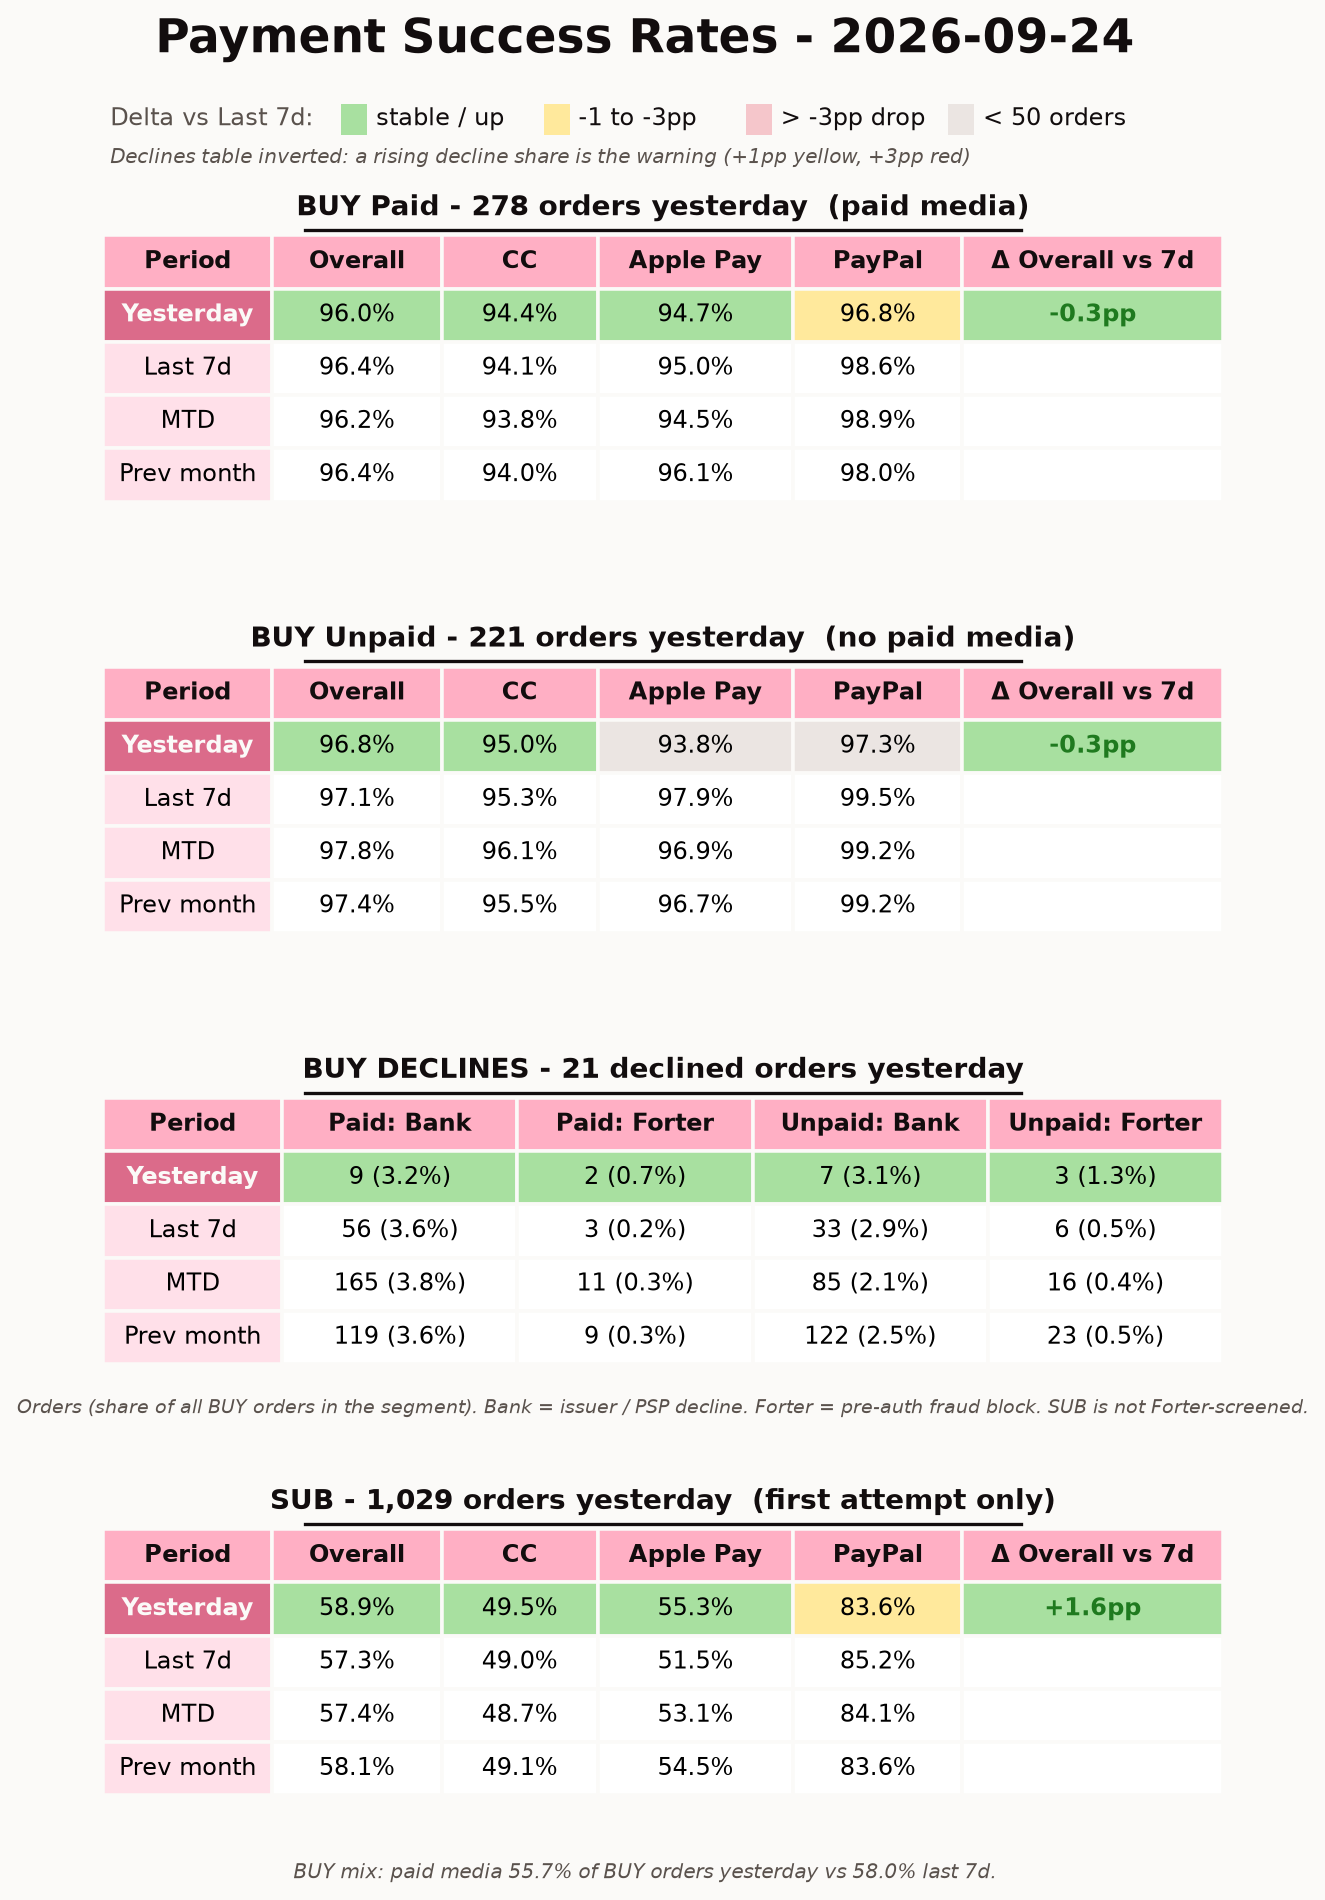
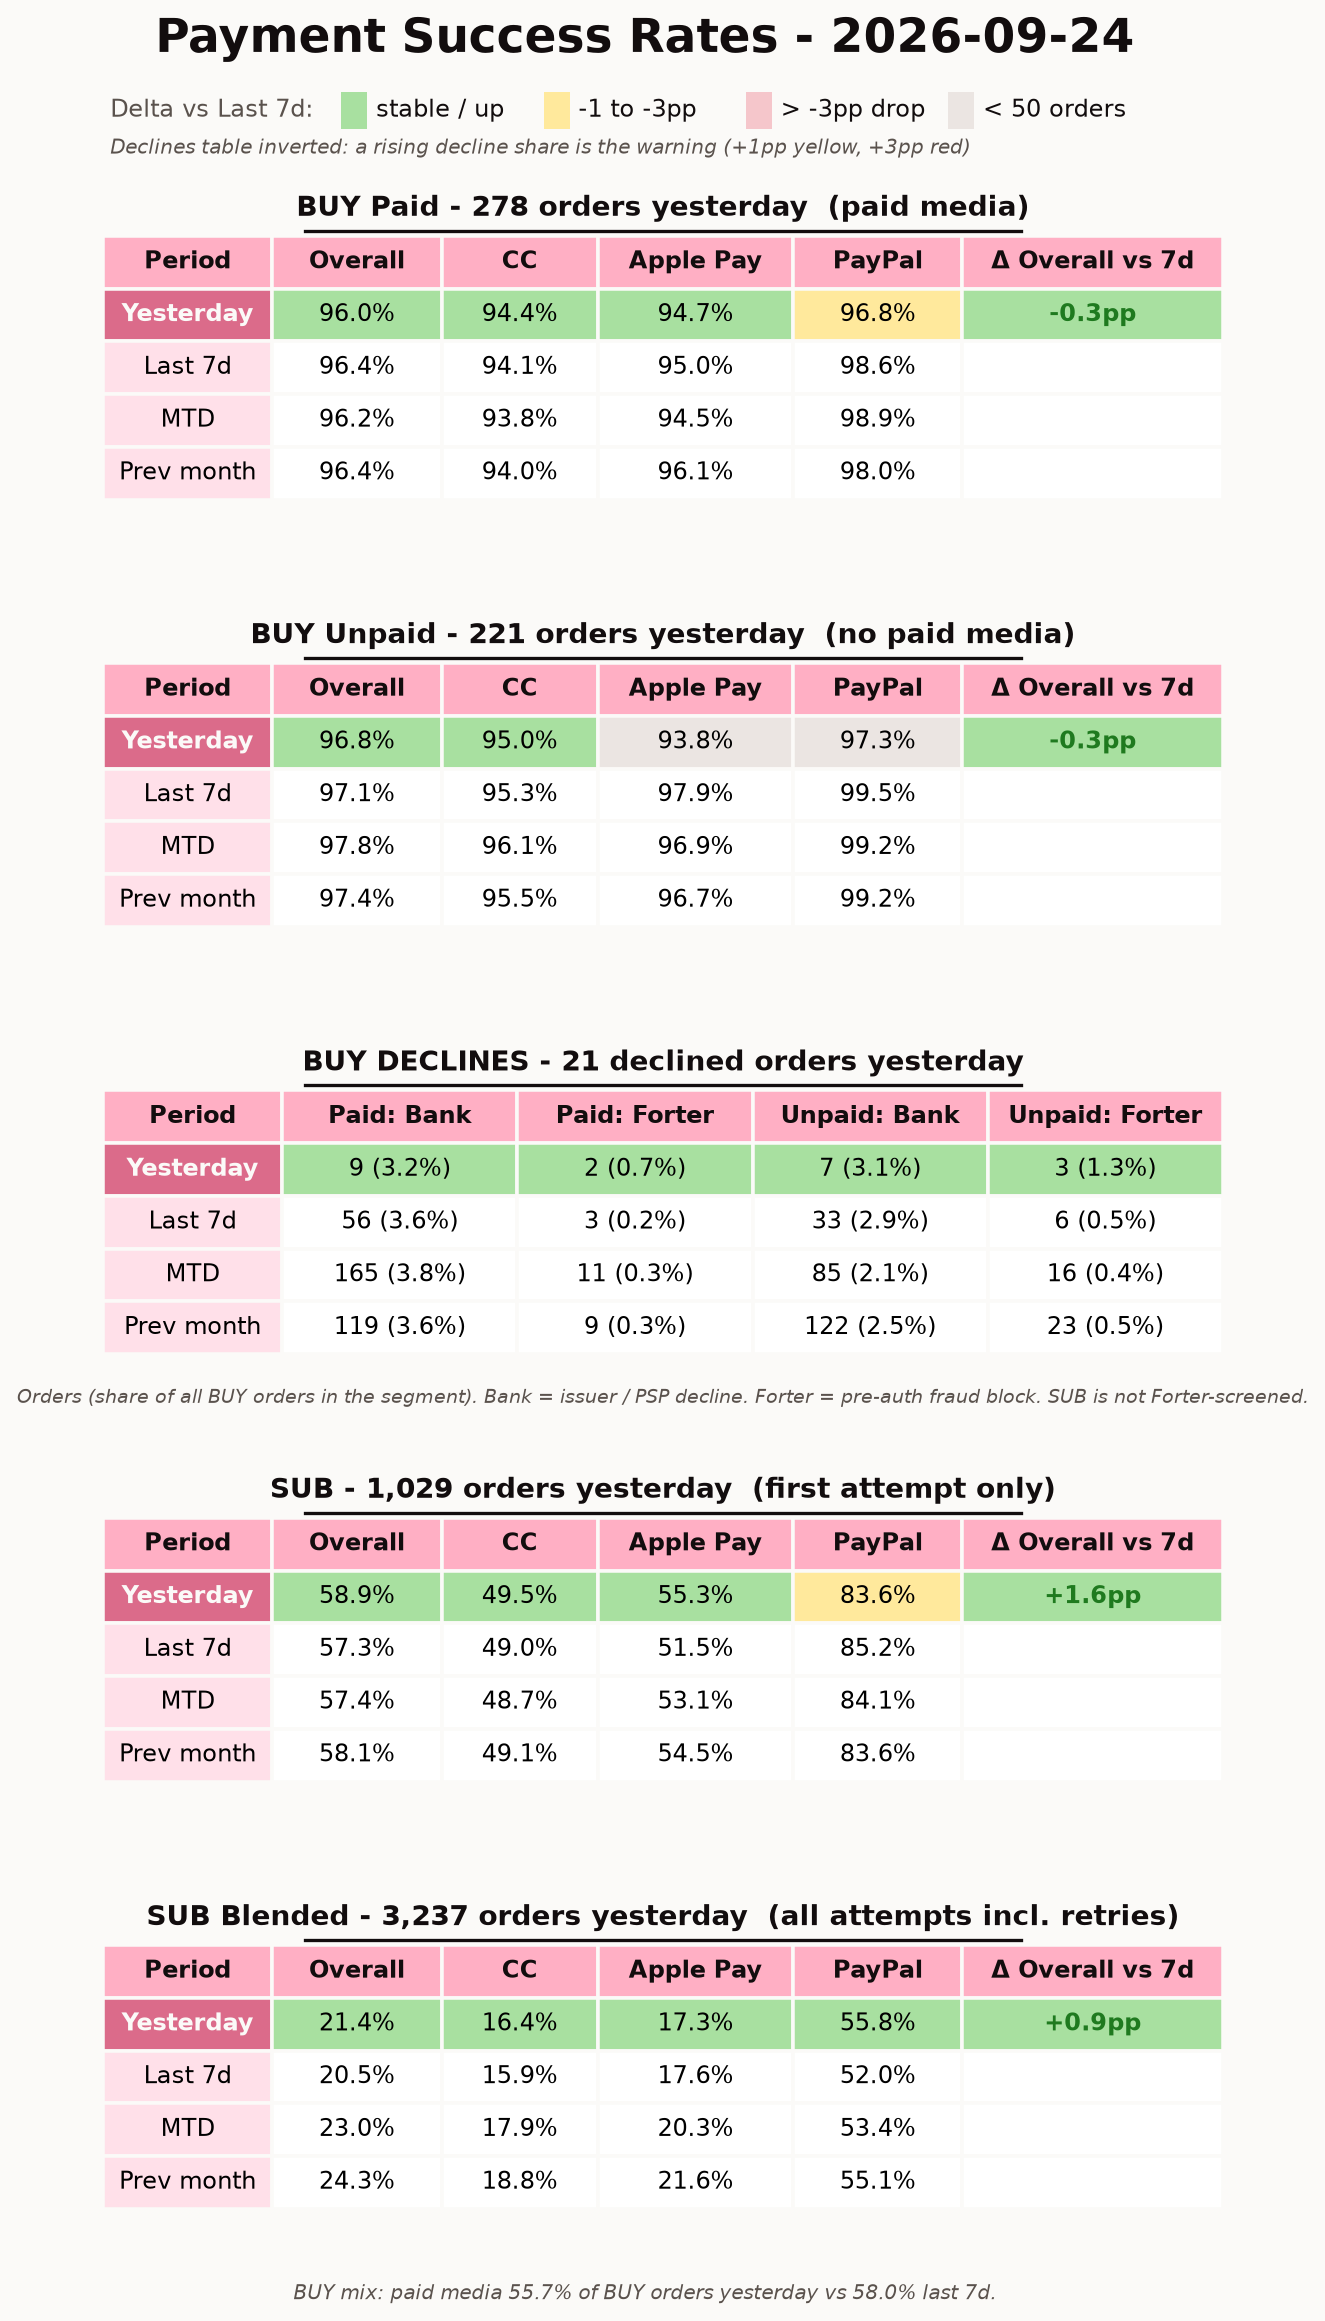
Add SUB Blended table (all SUB orders processed, incl. dunning retries)
SubAll_* covers every SUB order: first attempts plus retries (attempts 2-6 of
each cycle). Each retry is its own recurring order ID charged on a single day,
so each order counts once on its processing date. Rendered as the bottom table.

Claude-Session: https://claude.ai/code/session_01Bf6k2EmHxJKCK1oXwMqin2

diff --git a/run_daily_payments.py b/run_daily_payments.py
@@ -26,6 +26,7 @@ and the columns produced by the SQL:
   BuyPaid_Total   / BuyPaid_Overall   / BuyPaid_CC   / BuyPaid_AP   / BuyPaid_PP
   BuyUnpaid_Total / BuyUnpaid_Overall / BuyUnpaid_CC / BuyUnpaid_AP / BuyUnpaid_PP
   Sub_Total       / Sub_Overall       / Sub_CC       / Sub_AP       / Sub_PP
+  SubAll_Total    / SubAll_Overall    / SubAll_CC    / SubAll_AP    / SubAll_PP
   <funnel>_CC_N / <funnel>_AP_N / <funnel>_PP_N  (per-method order counts)
   BuyPaid_AllOrders   / BuyPaid_BankDecl   / BuyPaid_ForterDecl
   BuyUnpaid_AllOrders / BuyUnpaid_BankDecl / BuyUnpaid_ForterDecl
@@ -69,6 +70,7 @@ FUNNELS = [
     ("BuyUnpaid", "BUY Unpaid", "no paid media"),
     ("DECLINES",  "BUY DECLINES", None),   # rendered by render_declines
     ("Sub",       "SUB",        "first attempt only"),
+    ("SubAll",    "SUB Blended", "all attempts incl. retries"),
 ]
 MIN_SCORED_ORDERS = 50   # yesterday's per-method cells below this are not scored
 
@@ -260,11 +262,11 @@ def _footer_lines(rows: dict) -> list:
 
 
 def generate_image(rows: dict, report_date: str, out_path: Path) -> None:
-    fig = plt.figure(figsize=(8.5, 11.4), facecolor=PAGE_BG)
+    fig = plt.figure(figsize=(8.5, 13.9), facecolor=PAGE_BG)
     fig.text(0.5, 0.988, f"Payment Success Rates - {report_date}",
              ha="center", va="top", fontsize=20, fontweight="bold", color=INK)
 
-    y = 0.935
+    y = 0.948
     fig.text(0.13, y, "Delta vs Last 7d:", ha="left", va="center", fontsize=10, color=NEUTRAL_TX)
     for x, bg, label in [(0.29, GREEN_BG, "stable / up"), (0.43, YELLOW_BG, "-1 to -3pp"),
                          (0.57, RED_BG, "> -3pp drop"),
@@ -272,11 +274,11 @@ def generate_image(rows: dict, report_date: str, out_path: Path) -> None:
         fig.add_artist(mpatches.Rectangle((x, y - 0.008), 0.018, 0.016,
                                           facecolor=bg, edgecolor="none", transform=fig.transFigure))
         fig.text(x + 0.024, y, label, ha="left", va="center", fontsize=10, color=INK)
-    fig.text(0.13, y - 0.020,
+    fig.text(0.13, y - 0.016,
              "Declines table inverted: a rising decline share is the warning (+1pp yellow, +3pp red)",
              ha="left", va="center", fontsize=8.5, style="italic", color=NEUTRAL_TX)
 
-    gs = fig.add_gridspec(len(FUNNELS), 1, top=0.875, bottom=0.07, hspace=0.62)
+    gs = fig.add_gridspec(len(FUNNELS), 1, top=0.895, bottom=0.06, hspace=0.62)
     for i, (prefix, short_title, note) in enumerate(FUNNELS):
         ax = fig.add_subplot(gs[i, 0])
         ax.set_facecolor(PAGE_BG)
@@ -286,7 +288,7 @@ def generate_image(rows: dict, report_date: str, out_path: Path) -> None:
             render_funnel(ax, prefix, short_title, rows, note=note)
 
     for j, line in enumerate(_footer_lines(rows)):
-        fig.text(0.5, 0.030 - j * 0.020, line, ha="center", va="center",
+        fig.text(0.5, 0.024 - j * 0.016, line, ha="center", va="center",
                  fontsize=8.5, style="italic", color=NEUTRAL_TX)
 
     plt.savefig(out_path, dpi=170, bbox_inches="tight", facecolor=PAGE_BG)

diff --git a/README.md b/README.md
@@ -1,12 +1,12 @@
 # Daily-payments-routines
 
-Daily monitoring of payment success rates for the three live funnels (BUY Paid, BUY Unpaid, SUB) by payment method, posted as a single PNG to `#payments-daily-monitoring`.
+Daily monitoring of payment success rates for the live funnels (BUY Paid, BUY Unpaid, SUB first attempt, SUB blended) by payment method, posted as a single PNG to `#payments-daily-monitoring`.
 
 ## Files
 
 | File | Purpose |
 |---|---|
-| `payment method success rates by funnel.sql` | **Routine query.** Returns 4 periods × 3 funnels (`BuyPaid`, `BuyUnpaid`, `Sub`) × (`Total`, `Overall`, `CC`, `AP`, `PP`, plus per-method order counts `CC_N`/`AP_N`/`PP_N`), the BUY decline split (`AllOrders`, `BankDecl`, `ForterDecl`) and `BuyPaid_Share`. |
+| `payment method success rates by funnel.sql` | **Routine query.** Returns 4 periods × 4 funnels (`BuyPaid`, `BuyUnpaid`, `Sub`, `SubAll`) × (`Total`, `Overall`, `CC`, `AP`, `PP`, plus per-method order counts `CC_N`/`AP_N`/`PP_N`), the BUY decline split (`AllOrders`, `BankDecl`, `ForterDecl`) and `BuyPaid_Share`. |
 | `run_daily_payments.py` | Reads the BQ result JSON, renders the daily PNG, commits + pushes it to the current branch, and posts the Slack `image` block. |
 | `payments.png` | Latest rendered image; referenced by Slack via `raw.githubusercontent.com`. |
 | `archive/try funnel daily monitoring.sql` | Retired TRY deep-dive (AO vs AM auth, fraud vs payment-fail shipping). Kept for reference only; TRY stopped selling on 23 Aug 2026. |
@@ -20,6 +20,7 @@ MAËLYS stopped selling through TRY on 23 Aug 2026. After that date TRY fell fro
 | **BUY Paid** | BUY orders whose UTMs classify as paid media |
 | **BUY Unpaid** | BUY orders that did not come from paid media (organic / direct, CRM, unpaid search, other) |
 | **SUB** | Subscription recurring charges, first billing attempt only (unchanged) |
+| **SUB Blended** | Every SUB order processed: first attempts plus dunning retries (attempts 2 to 6 of each cycle) |
 | **BUY DECLINES** | Declined BUY orders split into bank / PSP declines and Forter fraud blocks, for Paid and Unpaid |
 
 ## Methodology
@@ -43,6 +44,7 @@ The functions are applied to the order's own UTMs in `cdc.OrdersNew_v`, not to `
 - TRY orders are excluded from BUY and SUB: any order in `cdc.TbybOrders_v`, or with a TRY auth (`TransactionType=7`) in the window. Without this, TRY shipping and post-trial charges that have no Spreedly metadata (PayPal) fell through the `'BUY'` fallback. The TRY checkouts still coming in are customers completing old carts saved in their browser; they are immaterial and not reported.
 - `OrdersNew_v.PrepaidConverted` orders are still excluded from BUY (the flow ended with TRY; ~20% approval would add noise)
 - SUB is restricted to the first billing attempt (`subscriptions.SubscriptionsRecurringOrders_v.AttemptsAmount = 1`)
+- SUB Blended takes every SUB order. Each retry is its own recurring order ID charged on a single day, so each order counts once on its processing date. The blended rate sits far below the first-attempt rate: on 24 Sep, 1,029 first attempts approved at 58.9% and 2,208 retries at ~3.9%, so 3,237 orders were approved at 21.4%. It moves with the retry mix as well as with payments health.
 
 Common across all funnels:
 - Source: `cdc.PaymentTransactions_v` `LEFT JOIN spreedly.transaction_report_v` on `OrchestratorToken`
@@ -68,7 +70,7 @@ Runs as the Claude Code Remote Routine **"Payments success rate monitoring"** (d
 
 1. Execute `payment method success rates by funnel.sql` via the BigQuery MCP (project `maelys-data`) and capture the 4 rows as JSON, for example saved to `/tmp/bq_results.json`.
 2. Run `python run_daily_payments.py /tmp/bq_results.json` (or `... -` for stdin). The script:
-   - Renders `payments.png` (page title, color legend, BUY Paid / BUY Unpaid / BUY DECLINES / SUB tables with traffic-light highlighting on the Yesterday row, and a footer line).
+   - Renders `payments.png` (page title, color legend, BUY Paid / BUY Unpaid / BUY DECLINES / SUB / SUB Blended tables with traffic-light highlighting on the Yesterday row, and a footer line).
    - Commits and pushes `payments.png` to the current branch.
    - Posts a Slack `image` block to `#payments-daily-monitoring` referencing `https://raw.githubusercontent.com/yaelk-maker/Daily-payments-routines/<branch>/payments.png?v=<ts>`.
 
@@ -88,7 +90,7 @@ Slack `image` blocks require a publicly fetchable HTTPS URL. The Claude Code Rem
 A single PNG with:
 - **Page title:** `Payment Success Rates - YYYY-MM-DD`
 - **Legend:** `Delta vs Last 7d:` followed by colored swatches: `stable / up`, `-1 to -3pp`, `> -3pp drop`, `< 50 orders`
-- **One table per funnel** (BUY Paid, BUY Unpaid, SUB) with rows `Yesterday | Last 7d | MTD | Prev month` and columns `Period | Overall | CC | Apple Pay | PayPal | Δ Overall vs 7d`
+- **One table per funnel** (BUY Paid, BUY Unpaid, SUB, SUB Blended at the bottom) with rows `Yesterday | Last 7d | MTD | Prev month` and columns `Period | Overall | CC | Apple Pay | PayPal | Δ Overall vs 7d`
 - **BUY DECLINES table** (between BUY Unpaid and SUB) with columns `Period | Paid: Bank | Paid: Forter | Unpaid: Bank | Unpaid: Forter`; each cell shows `orders (share of all BUY orders)`
 - **Footer:** paid media share of BUY orders (yesterday vs last 7d)
 
